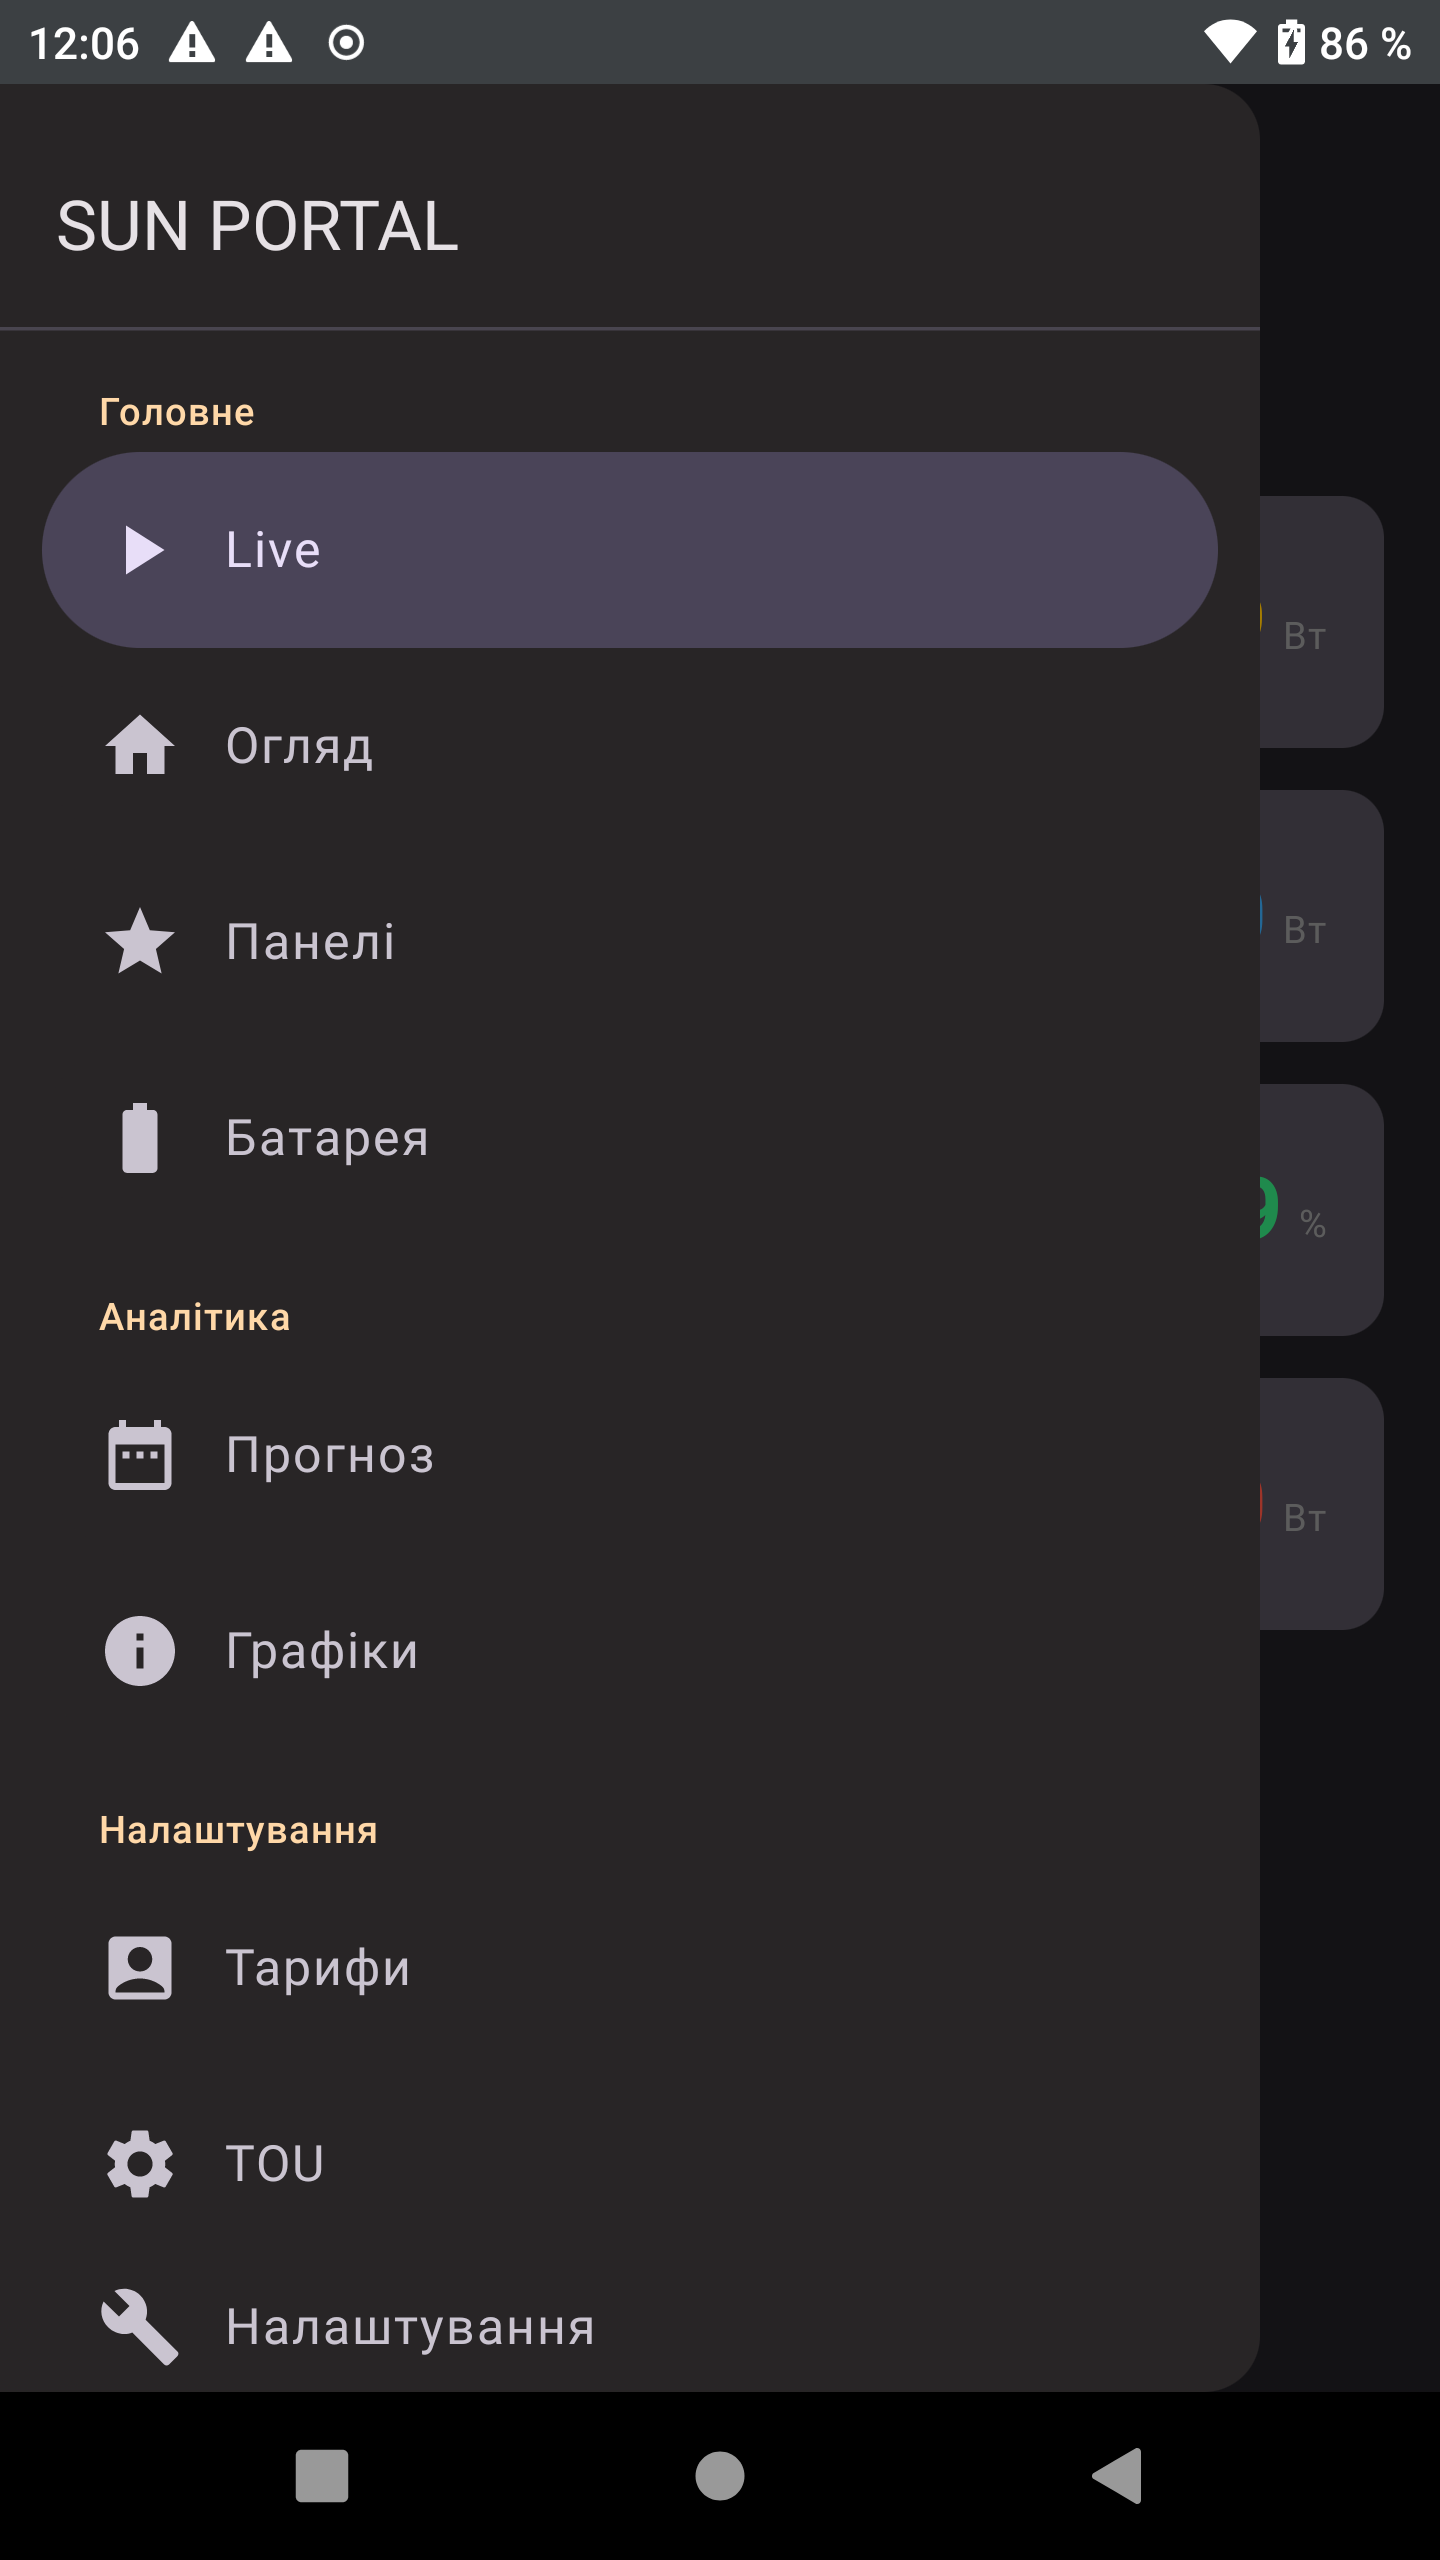
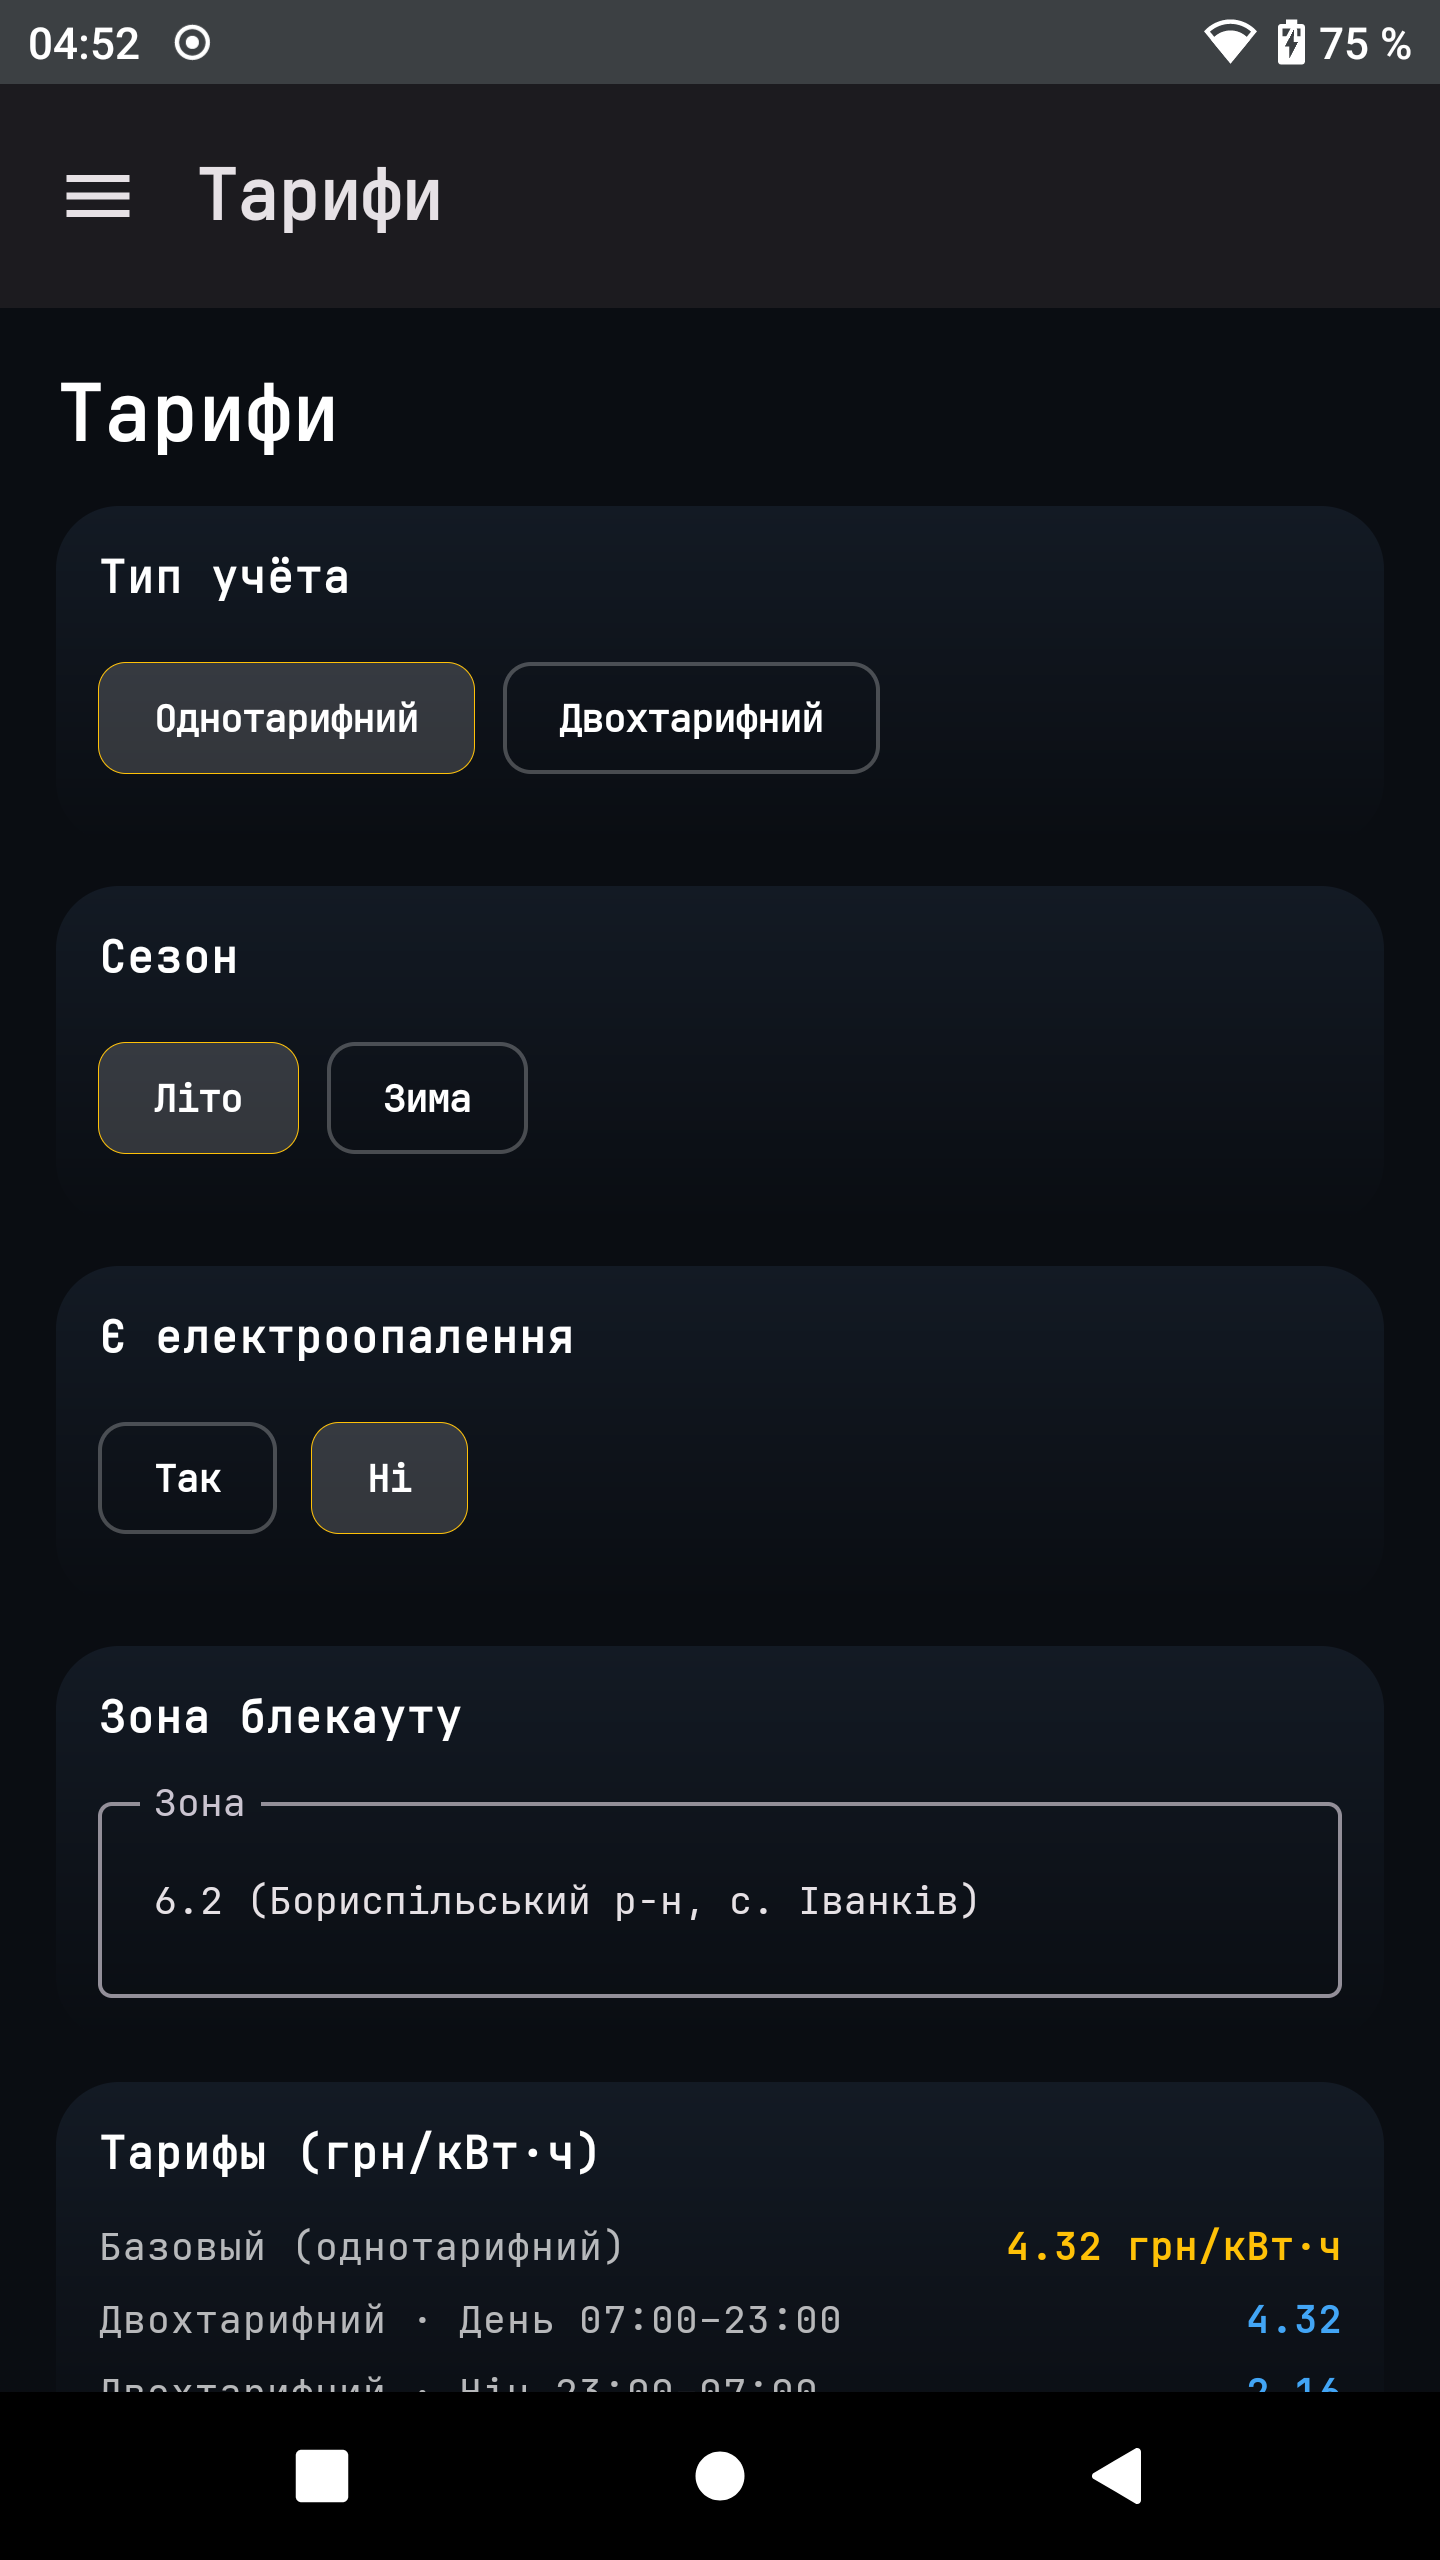
Task: Tariffs screen Svitgrid redesign - install APK, verify on Nexus 6P

diff --git a/AGENTS.md b/AGENTS.md
@@ -1,0 +1,10 @@
+=== GIT-СИНХРОНИЗАЦИЯ (обязательно) ===
+
+После изменений:
+1. git status
+2. git add -A
+3. git commit -m "Task: <описание>"
+4. git push origin main
+5. git log --oneline -3
+
+В отчёт добавить раздел «Git-синхронизация» с выводом git push и git log.
